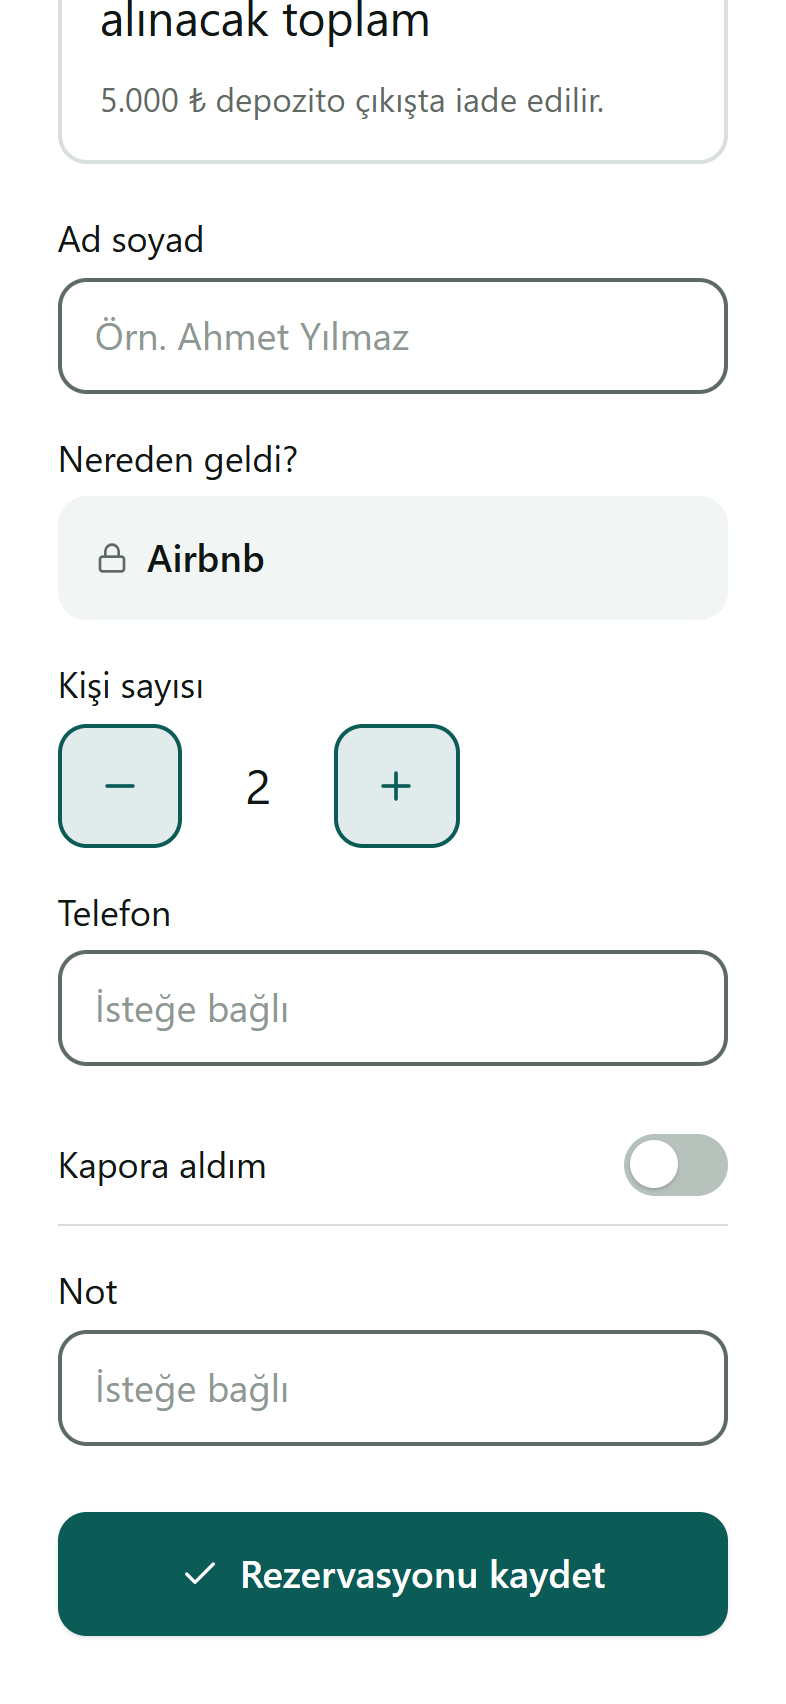
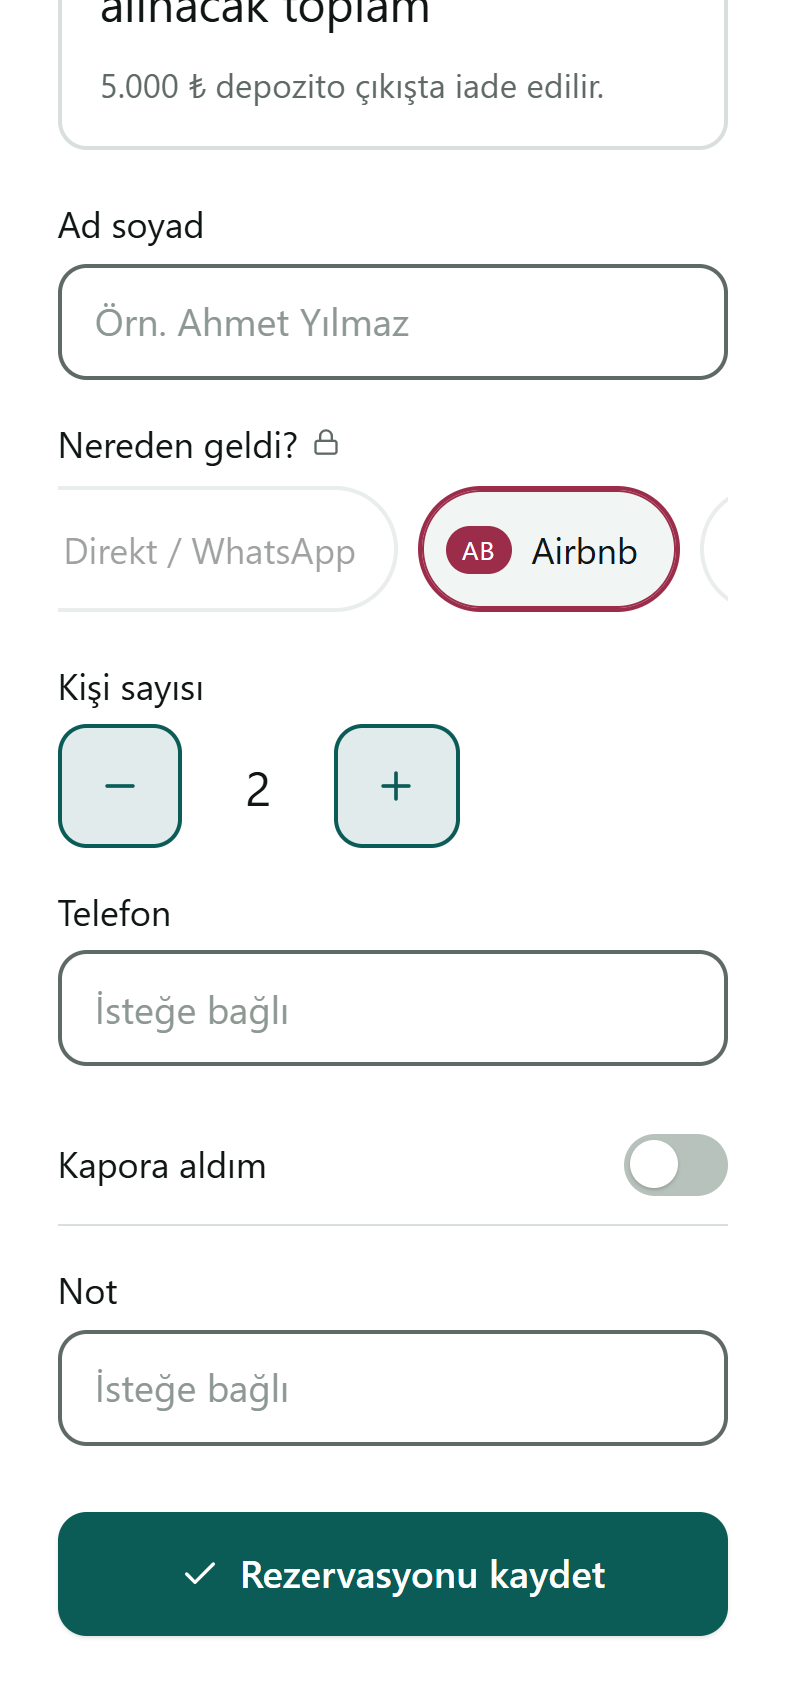
Görev 33.5: "Nereden geldi?" alanı ve kanal komisyonları
- Rezervasyon formunda adın altında büyük, yatay kayan kanal hapları; Direkt / WhatsApp başta ve
  varsayılan, ötekiler sahibin en çok kullandığına göre. Dış satıştan açılınca o site seçili ve
  kilitli (aynı satır, aynı boy: iki form artık birebir aynı yerleşimde).
- Opsiyonda da seçilir ve rezervasyona çevrilince taşınır (teklif tablosunda kaynak sütunu yok;
  tekliften dönen rezervasyon Direkt başlar).
- Eski rezervasyon: düzenlemede seçili kanal yok, seçilebilir; dış satışa bağlıysa kilitli.
- Villa → "Satış kanalları ve komisyon" (yalnız sahip): kanal başına yüzde, bilgi.komisyon'da.

diff --git a/www/index.html b/www/index.html
@@ -1556,10 +1556,22 @@
   .cell.dis.disKapali{background:var(--dis-cizgi-kapali) !important}
   /* 33.1: giriş günü sağ-alt yarı, çıkış günü sol-üst yarı çizgili (bizim rezervasyonlar gibi); zemin satır içinde */
   .cell.disY{color:#2E3833}
-  /* 33.2: dış satıştan gelen formda site kilitli */
-  .kaynakKilit{display:flex; align-items:center; gap:.5rem; min-height:var(--dokunma-yukseklik); padding:0 1rem; border-radius:var(--kose);
-    background:var(--soft); color:var(--ink); font-weight:600}
-  .kaynakKilit svg.ik{color:var(--muted); flex:none}
+  /* 33.5 "Nereden geldi?": büyük haplar, yatay kayar; seçili hap kanal renginde çerçeve. Kilitliyken (dış satış) ötekiler soluk */
+  .komListe{display:flex; flex-direction:column; gap:.5rem}
+  .komSatir{display:flex; align-items:center; gap:.75rem; min-height:var(--dokunma-yukseklik)}
+  .komAd{flex:1 1 auto; min-width:0; overflow-wrap:anywhere}
+  .komGir{flex:none; display:flex; align-items:center; gap:.25rem; color:var(--muted)}
+  .komGir input{width:4.5rem; text-align:right}
+  .kanalBaslik{display:flex; align-items:center; gap:.375rem; margin-bottom:.375rem}
+  .kanalBaslik svg.ik{color:var(--muted)}
+  .kanalKaydir{display:flex; gap:.5rem; overflow-x:auto; overscroll-behavior-x:contain; scrollbar-width:none; margin:0; padding:.125rem 0 .25rem; -webkit-overflow-scrolling:touch}
+  .kanalKaydir::-webkit-scrollbar{display:none}
+  .kanalSec{flex:none; display:inline-flex; align-items:center; gap:.5rem; min-height:var(--dokunma-yukseklik); padding:0 1rem 0 .625rem;
+    border-radius:99px; border:var(--cerceve-kalinlik) solid var(--cizgi); background:#fff; color:var(--ink); font:inherit; font-size:.9375rem;
+    white-space:nowrap; cursor:pointer; transition:background-color var(--hiz-bas), border-color var(--hiz-bas)}
+  .kanalSec.secili{border-color:var(--kanal, var(--ok)); background:var(--soft); box-shadow:inset 0 0 0 1px var(--kanal, var(--ok))}
+  .kanalSec:disabled{opacity:.4; cursor:default}
+  .kanalKaydir.kilitli .kanalSec.secili{cursor:default}
   /* 33.4 kanal hapı (kısa etiket, kanal renginde; renkler KANAL listesinde) */
   .kanalHap{flex:none; display:inline-flex; align-items:center; justify-content:center; min-width:1.75rem; height:1.25rem; padding:0 .3125rem;
     border-radius:99px; color:#fff; font-size:.6875rem; letter-spacing:.03em; line-height:1; white-space:nowrap}
@@ -2161,6 +2173,10 @@
       <button class="satirBtn hide" id="dtBtn" data-ikk="paylas:baglanti">
         <span><span>Airbnb, Booking ve diğer siteler</span><span class="satirAlt" id="dtOzet">Takvim bağlantıları</span></span>
       </button>
+      <!-- 33.5: satış kanalları ve komisyon (yalnız sahip) -->
+      <button class="satirBtn hide" id="kanalBtn" data-ikk="para:yuzde">
+        <span><span>Satış kanalları ve komisyon</span><span class="satirAlt" id="kanalOzet"></span></span>
+      </button>
       <button class="satirBtn hide" id="giderlerimBtn" data-ikk="para:fis">
         <span>Giderlerim</span>
         <span class="sag" id="giderlerimOzet"></span>
@@ -2608,6 +2624,7 @@
     var t=dtTakvimleri(villaId).filter(function(x){ return x.id===takvimId; })[0];
     return t && KANAL[t.kaynak] ? t.kaynak : "diger";
   }
+  function dtBagliMi(v,r){ return !!(v && r && (DT.bloklar[v.id]||[]).some(function(x){ return x.bagli===r.id; })); }
   // rezervasyonun kanalı: kaynak alanı; boşsa ve bir dış satışa bağlıysa o sitenin kanalı; yoksa null (belirtilmemiş)
   function rezKanal(v,r){
     if(!r) return null;
@@ -2615,6 +2632,38 @@
     var b=v ? (DT.bloklar[v.id]||[]).filter(function(x){ return x.bagli===r.id; })[0] : null;
     return b ? dtTakvimKanal(v.id,b.takvim) : null;
   }
+  // 33.5 "Nereden geldi?": büyük haplar, yatay kayar. Direkt / WhatsApp hep başta; ötekiler sahibin en çok kullandığına göre
+  // (eşitse bu sıra). Kilitliyse (dış satış) yalnız seçili hap etkin.
+  var KANAL_FORM=["direkt","airbnb","booking","villasepeti","tatilsepeti","kalkanvilla","villapaketi","tatilkentim","tavsiye","vrbo","diger"];
+  function kanalSirasi(){
+    var say={};
+    (S.villalar||[]).forEach(function(v){ (v.rez||[]).forEach(function(r){ if(r.kaynak) say[r.kaynak]=(say[r.kaynak]||0)+1; }); });
+    return ["direkt"].concat(KANAL_FORM.slice(1).map(function(k,i){ return {k:k, i:i}; })
+      .sort(function(a,b){ return (say[b.k]||0)-(say[a.k]||0) || a.i-b.i; }).map(function(x){ return x.k; }));
+  }
+  function kanalSecHTML(id,secili,kilitli){
+    return '<div class="field kanalAlan" id="'+id+'-alan"><div class="eyebrow kanalBaslik">'+esc(cev("Nereden geldi?"))+
+        (kilitli?ikon("kilit",{boy:14}):"")+"</div>"+
+      '<div class="kanalKaydir'+(kilitli?" kilitli":"")+'" id="'+id+'" role="radiogroup" aria-label="'+esc(cev("Nereden geldi?"))+'">'+
+      kanalSirasi().map(function(k){ var s=k===secili;
+        return '<button type="button" class="kanalSec'+(s?" secili":"")+'" data-kanal="'+k+'" role="radio" aria-checked="'+s+'"'+
+          (kilitli && !s?' disabled':"")+(s?' style="--kanal:'+KANAL[k].renk+'"':"")+">"+kanalHap(k)+"<span>"+esc(cev(KANAL[k].ad))+"</span></button>"; }).join("")+
+      "</div></div>";
+  }
+  function kanalSecBagla(id){
+    var el=document.getElementById(id); if(!el) return;
+    // seçili hap görünmüyorsa kaydırılır (görünüyorsa sıra yerinde kalır)
+    var s=el.querySelector(".secili");
+    if(s) try{ var sx=s.getBoundingClientRect(), ex=el.getBoundingClientRect(); if(sx.right>ex.right-8) el.scrollLeft+=sx.right-ex.right+24; }catch(e){}
+    if(el.classList.contains("kilitli")) return;
+    el.addEventListener("click",function(e){
+      var b=e.target.closest("[data-kanal]"); if(!b) return;
+      Array.prototype.forEach.call(el.querySelectorAll(".kanalSec"),function(x){ var on=x===b; x.classList.toggle("secili",on); x.setAttribute("aria-checked",String(on));
+        if(on) x.style.setProperty("--kanal",KANAL[x.dataset.kanal].renk); else x.style.removeProperty("--kanal"); });
+      titret("secim");
+    });
+  }
+  function kanalSecDeger(id){ var s=document.querySelector("#"+id+" .secili"); return s ? s.dataset.kanal : null; }
   // takvim hücresinde tam ad sığar mı (hap: .6875rem yazı + iki yanda .3125rem boşluk; hücrenin iki yanında 2 px pay)
   // (yazı boyu .cell .fy ile aynı: clamp(11px, .6875rem, 3.1vw); harf aralığı .03em; 1 px pay)
   var KS={en:0, ctx:null, kok:16, boy:11};
@@ -2716,6 +2765,35 @@
     el.textContent = !dtHazir() ? cev("Takvim bağlantıları") : (l.length ? l.map(function(t){ return t.ad||dtKisaAd(t.kaynak); }).join(", ") : cev("Bağlı takvim yok"));
   }
   document.getElementById("dtBtn").onclick=function(){ var v=aktif(); if(v) dtEkran(v); };
+  document.getElementById("kanalBtn").onclick=function(){ var v=aktif(); if(v && sahipMi()) komisyonSheet(v); };
+  // 33.5: kanal başına komisyon yüzdesi: villalar.bilgi.komisyon = {airbnb:15, …} (veritabanı değişikliği yok)
+  function komisyonlar(v){ var k=(v && v.bilgi && v.bilgi.komisyon) || {}; return (k && typeof k==="object") ? k : {}; }
+  function komisyonOzet(v){
+    var k=komisyonlar(v), l=KANAL_SIRA.filter(function(x){ return +k[x]>0; });
+    return l.length ? l.map(function(x){ return cev(KANAL[x].ad)+" %"+String(+k[x]).replace(".",","); }).join(", ") : cev("Komisyon girilmedi");
+  }
+  function komisyonSheet(v){
+    var k=komisyonlar(v);
+    perde('<div class="head"><h2>'+esc(cev("Satış kanalları ve komisyon"))+"</h2>"+kapatBtn()+"</div>"+
+      '<div class="sm muted" style="margin:.25rem 0 1rem;line-height:1.45">'+esc(cev("Sitenin aldığı komisyon yüzdesini yazın. Gelir & gider'deki kanal raporunda net tutar buna göre hesaplanır."))+"</div>"+
+      '<div class="komListe">'+KANAL_SIRA.filter(function(x){ return x!=="direkt"; }).map(function(x){
+        return '<label class="komSatir">'+kanalHap(x)+'<span class="komAd">'+esc(cev(KANAL[x].ad))+"</span>"+
+          '<span class="komGir"><span>%</span><input type="text" inputmode="decimal" autocomplete="off" maxlength="5" data-kom="'+x+'" value="'+(+k[x]>0?String(+k[x]).replace(".",","):"")+'" placeholder="0" aria-label="'+esc(cev(KANAL[x].ad)+" "+cev("komisyon yüzdesi"))+'"></span></label>'; }).join("")+"</div>"+
+      '<div class="sm warn hide" id="komHata" style="margin-top:.5rem"></div>'+
+      '<button class="big" data-ik="tik" id="komKaydet" style="margin-top:1rem">'+esc(cev("Kaydet"))+"</button>");
+    document.getElementById("komKaydet").onclick=function(){
+      var y={}, hata="";
+      Array.prototype.forEach.call(document.querySelectorAll("[data-kom]"),function(inp){
+        var s=inp.value.trim().replace(",","."); if(!s) return;
+        var n=+s; if(!(n>=0 && n<=100)){ hata=cev("Yüzde 0 ile 100 arasında olmalı."); alanHata(inp); return; }
+        if(n>0) y[inp.dataset.kom]=Math.round(n*10)/10;
+      });
+      var h=document.getElementById("komHata");
+      if(hata){ h.textContent=hata; h.classList.remove("hide"); titret("hata"); return; }
+      v.bilgi=v.bilgi||{}; v.bilgi.komisyon=y;
+      kaydet(); kapat(); ciz(); tamam(cev("Komisyonlar kaydedildi"));
+    };
+  }
 
   // ---- 32.4 takvimde dış bloklar ----
   // Bir gecenin dış bloğu (bizdeki bir rezervasyona bağlı olanlar sayılmaz; o rezervasyon normal görünür)
@@ -5899,6 +5977,8 @@
     document.getElementById("bakiciBtn").classList[(S.bulut&&sahip&&!S.destek)?"remove":"add"]("hide");
     document.getElementById("dtBtn").classList[(S.bulut&&sahip&&!S.destek&&DT.hazir!==false)?"remove":"add"]("hide");
     dtOzetYaz(v); dtTazelikCiz(v);
+    document.getElementById("kanalBtn").classList[(sahip&&duz&&!S.destek)?"remove":"add"]("hide");
+    document.getElementById("kanalOzet").textContent=komisyonOzet(v);
     // 16.6: villa ekranında Teklifler bölümü görünüyorsa "Teklifler" satırı tekrarlanmaz
     var tkVar=!!(S.tkOn && S.tkOn[v.id] && S.tkOn[v.id].l && S.tkOn[v.id].l.length && teklifVerebilir());
     document.getElementById("teklifBtn").classList[(S.bulut&&sahip&&kurulu()&&!S.destek&&!tkVar)?"remove":"add"]("hide");
@@ -6789,18 +6869,20 @@
         (function(){ if(!paraGorur()) return ""; var k=konaklamaHesap(v,ar.start,ar.end); return k.eksik?"":" · "+para(k.toplam); })()+"</div>"+
       alan("op-ad",esc(cev("Misafir adı")),esc(cev("Örn. Ali Kaya")),"text")+
       '<div class="sm warn hide" id="op-adHata" style="margin:-.5rem 0 1rem">'+esc(cev("Misafir adını yazın"))+"</div>"+
+      kanalSecHTML("op-kaynak","direkt",false)+
       alan("op-tel",esc(cev("Telefon")),esc(cev("İsteğe bağlı")),"telefon")+
       '<div class="eyebrow" style="margin:.25rem 0 .5rem">'+esc(cev("Son geçerlilik"))+"</div>"+gecerlilikSec("op-gec")+
       '<div style="margin-top:1rem">'+alan("op-not",esc(cev("Not")),esc(cev("İsteğe bağlı")),"text")+"</div>"+
       '<button class="big" data-ik="saat" id="op-kaydet">'+esc(cev("Opsiyonu kaydet"))+"</button>");
     var son=gecerlilikBagla("op-gec","2");
+    kanalSecBagla("op-kaynak");
     document.getElementById("op-kaydet").onclick=function(){
       var ad=document.getElementById("op-ad").value.trim();
       if(!ad){ document.getElementById("op-adHata").classList.remove("hide"); alanHata(document.getElementById("op-ad")); return; }
       var s2=son(); if(!s2) return uyari(cev("Opsiyonun biteceği günü seçin."));
       v.bilgi=v.bilgi||{}; v.bilgi.opsiyonlar=(v.bilgi.opsiyonlar||[]).filter(opsGorunur);
       v.bilgi.opsiyonlar.push({id:uid(), start:ar.start, end:ar.end, ad:ad, tel:document.getElementById("op-tel").value.trim(),
-        son:s2, not:document.getElementById("op-not").value.trim(), olusturma:fmt(today)});
+        son:s2, not:document.getElementById("op-not").value.trim(), kaynak:kanalSecDeger("op-kaynak")||"direkt", olusturma:fmt(today)});
       kaydet(); kapat(); ciz(); rhBildir("kaydedildi:ops"); tamam(cev("Opsiyon kondu"));
     };
     rehberAc("ops",REHBER.ops);
@@ -6819,7 +6901,7 @@
     document.getElementById("od-cevir").onclick=function(){
       var hd=dogrula(parse(o.start),parse(o.end));
       if(hd) return uyari(cev("Bu tarihler artık uygun değil.")+" "+cev(hd));
-      S.taslak={start:o.start, end:o.end, color:renkSec(v.rez,parse(o.start),parse(o.end)), opsiyon:{id:o.id, ad:o.ad, tel:o.tel, not:o.not}};
+      S.taslak={start:o.start, end:o.end, color:renkSec(v.rez,parse(o.start),parse(o.end)), opsiyon:{id:o.id, ad:o.ad, tel:o.tel, not:o.not, kaynak:o.kaynak}};
       form();
     };
     document.getElementById("od-uzat").onclick=function(){
@@ -7538,8 +7620,7 @@
       '<div style="margin-top:1.25rem"></div>'+
       alan("f-guest","Ad soyad","Örn. Ahmet Yılmaz","text")+
       '<div class="sm warn hide" id="f-guest-hata" style="margin:-.5rem 0 1rem">'+esc(cev(t.dis?"Misafirin adını yazın":"Misafir adını yazın"))+"</div>"+
-      (t.dis?'<div class="field" id="f-kaynakKilit"><div class="eyebrow" style="margin-bottom:.375rem">'+esc(cev("Nereden geldi?"))+"</div>"+
-        '<div class="kaynakKilit">'+ikon("kilit",{boy:16})+"<span>"+esc(t.dis.ad)+"</span></div></div>":"")+
+      kanalSecHTML("f-kaynak", t.dis ? t.dis.kaynak : ((t.opsiyon && KANAL[t.opsiyon.kaynak]) ? t.opsiyon.kaynak : "direkt"), !!t.dis)+
       kisiStep+
       alan("f-phone","Telefon","İsteğe bağlı","telefon")+
       kapora+
@@ -7665,6 +7746,7 @@
       if(t.opsiyon.not) document.getElementById("f-note").value=t.opsiyon.not;
     }
     if(!para0 || t.dis) isim.focus();
+    kanalSecBagla("f-kaynak");
     rehberAc("rez",REHBER.rez);
     // 33.2: dış satıştan açılan formda bir şey yazıldıysa kapatırken sorulur
     var fo=isim.closest(".overlay");
@@ -7689,6 +7771,7 @@
         // Bakıcı tutar göndermez; tutarı veritabanı gecelik fiyatlardan hesaplar
         tutar:para0?U.geceler:0,
         ekUcret:para0?U.ek:0,
+        kaynak:kanalSecDeger("f-kaynak")||"direkt",
         odenen:0, odemeler:[] };
       // depozito bu rezervasyon için sabitlenir (villa ayarı sonra değişse de)
       if(para0) yeni.depozito={tutar:U.dep};
@@ -8064,6 +8147,7 @@
         tarihInput("dz-bit",r.end)+"</div>"+
       "</div>"+
       alan("dz-guest","Ad soyad","","text",r.guest)+
+      kanalSecHTML("dz-kaynak",rezKanal(v,r),dtBagliMi(v,r))+
       alan("dz-people","Kaç kişi","2","number",r.people)+
       alan("dz-phone","Telefon","İsteğe bağlı","telefon",r.phone)+
       alan("dz-note","Not","İsteğe bağlı","text",r.note)+
@@ -8076,6 +8160,7 @@
       '<button class="big" data-ik="tik" id="dz-kaydet">Değişiklikleri kaydet</button>');
 
     ["dz-tutar","dz-ek","dz-dep"].forEach(function(id){ var e=document.getElementById(id); if(e) sayiBicimle(e); });
+    kanalSecBagla("dz-kaynak");
     document.getElementById("dz-kaydet").onclick=function(){
       var b1=document.getElementById("dz-bas").value;
       var b2=document.getElementById("dz-bit").value;
@@ -8091,6 +8176,7 @@
       r.people=document.getElementById("dz-people").value||"";
       r.phone=document.getElementById("dz-phone").value.trim();
       r.note=document.getElementById("dz-note").value.trim();
+      var dzK=kanalSecDeger("dz-kaynak"); if(dzK) r.kaynak=dzK;
       if(paraGorur()){
         var yeniGece=Math.round((parse(b2)-parse(b1))/86400000);
         r.tutar=sayi(document.getElementById("dz-tutar").value);

diff --git a/www/dil.js b/www/dil.js
@@ -1216,7 +1216,13 @@
     "Villa Paketi'nden":"From Villa Paketi",
     "Tatilkentim'den":"From Tatilkentim",
     "Tavsiyeyle":"By referral",
-    "Diğer kanaldan":"From another channel"
+    "Diğer kanaldan":"From another channel",
+    "Satış kanalları ve komisyon":"Sales channels and commission",
+    "Komisyon girilmedi":"No commission entered",
+    "Sitenin aldığı komisyon yüzdesini yazın. Gelir & gider'deki kanal raporunda net tutar buna göre hesaplanır.":"Enter the commission percentage each site takes. The channel report under Income & expenses calculates the net amount from it.",
+    "komisyon yüzdesi":"commission percentage",
+    "Yüzde 0 ile 100 arasında olmalı.":"The percentage must be between 0 and 100.",
+    "Komisyonlar kaydedildi":"Commissions saved"
   };
 
   // ---------- kalıplı metinler ----------

diff --git a/www/sw.js b/www/sw.js
@@ -3,7 +3,7 @@
 
 // Sürüm: her yayında artırılır. Dosya değişince telefonlar yeni servisi kurar;
 // açılışta eski sürümlerden kalan önbellekler silinir, böylece eski ekran kalmaz.
-var SURUM = "vt-2026-11-20-gorev33d";
+var SURUM = "vt-2026-11-20-gorev33e";
 
 self.addEventListener("install", function (e) {
   self.skipWaiting();

diff --git a/docs/qa/gorev33/form-karsilastirma/README.md b/docs/qa/gorev33/form-karsilastirma/README.md
@@ -24,5 +24,6 @@ ad / telefon / not alanları, kişi sayacı, kapora anahtarı, Kaydet düğmesi;
 | iPhone 15 · Normal | 0 |
 | iPhone 15 · Büyük | 0 |
 
-Tek fark "Nereden geldi?" satırı: dış satış formunda site kilitli olarak görünür (Normal yazıda 101 px, Büyük'te 114 px); altındaki
-her şey bu kadar aşağıda, kendi arasında birebir aynı. Normal forma "Nereden geldi?" 33.5'te eklenir; o zaman bu fark da kalkar.
+33.5'ten sonra iki formda da adın altında aynı "Nereden geldi?" satırı var (dış satış formunda site seçili ve kilitli); satır aynı
+yerde, aynı boyda. Satırın içindeki haplar karşılaştırmaya katılmaz: Büyük yazıda seçili site ekranın dışında kalıyorsa satır onu
+gösterecek kadar kayar. Görüntüler 33.5'ten sonraki koddan.
